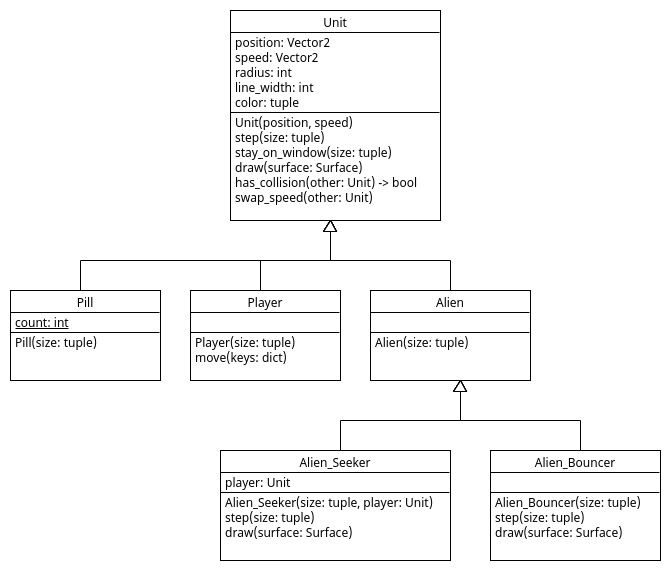
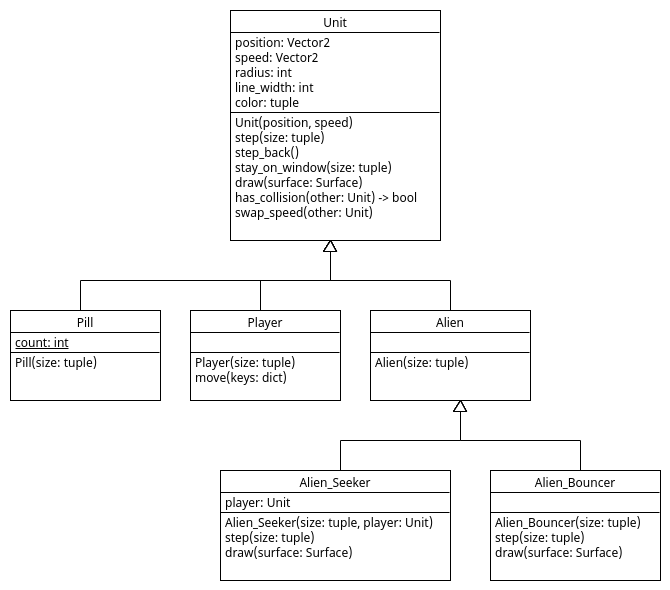
UMLs updated

diff --git a/opdrachten/week8/pygame11_points/Unit.py b/opdrachten/week8/pygame11_points/Unit.py
@@ -13,8 +13,13 @@ class Unit:
         
     def step(self, size):
         """ Changes the position of Unit based on its speed. """
+        self.previous_position = self.position.copy()
         self.position += self.speed
         self.stay_on_window(size)
+
+    def step_back(self):
+        """ Steps back to `previous_position`. """
+        self.position = self.previous_position
         
     def stay_on_window(self, size):
         """ Makes sure the Unit stays on the window with 'size'. """

diff --git a/opdrachten/week8/pygame12_type_hierarchy/Unit.py b/opdrachten/week8/pygame12_type_hierarchy/Unit.py
@@ -13,8 +13,13 @@ class Unit:
         
     def step(self, size):
         """ Changes the position of Unit based on its speed. """
+        self.previous_position = self.position.copy()
         self.position += self.speed
         self.stay_on_window(size)
+
+    def step_back(self):
+        """ Steps back to `previous_position`. """
+        self.position = self.previous_position
         
     def stay_on_window(self, size):
         """ Makes sure the Unit stays on the window with 'size'. """

diff --git a/opdrachten/week8/pygame07_sticky_units/index.md b/opdrachten/week8/pygame07_sticky_units/index.md
@@ -16,7 +16,7 @@ automatisch af te remmmen). De units blijven dan botsen in de
 daaropvolgende tijdstappen zodat het lijkt dat ze aan elkaar
 vastplakken.
 
-![sticky_units.png](sticky_units.png)
+![sticky_units_figure.png](sticky_units_figure.png)
 
 # Oplossing
 
@@ -47,6 +47,8 @@ er een botsing plaatsvindt:
     def step_back(self):
         self.position = self.previous_position
 ```
+
+![sticky_units.png](sticky_units.png)
 
 # Opdracht: Mutable
 

diff --git a/opdrachten/week8/pygame06_interaction/index.md b/opdrachten/week8/pygame06_interaction/index.md
@@ -44,13 +44,13 @@ Schrijf ook de `swap_speed()` methode in bestand [Unit.py](Unit.py) om
 de `speed` van twee units om te wisselen (nadat een botsing is
 gedetecteerd).
 
+![interaction.png](interaction.png)
 
 ## Het Resultaat
 
 Deze methoden zouden moeten resulteren in 'stuiterende' units.
 
 ![interaction.gif](interaction.gif)
-
 
 ## Meer Realistisch Stuiteren
 
